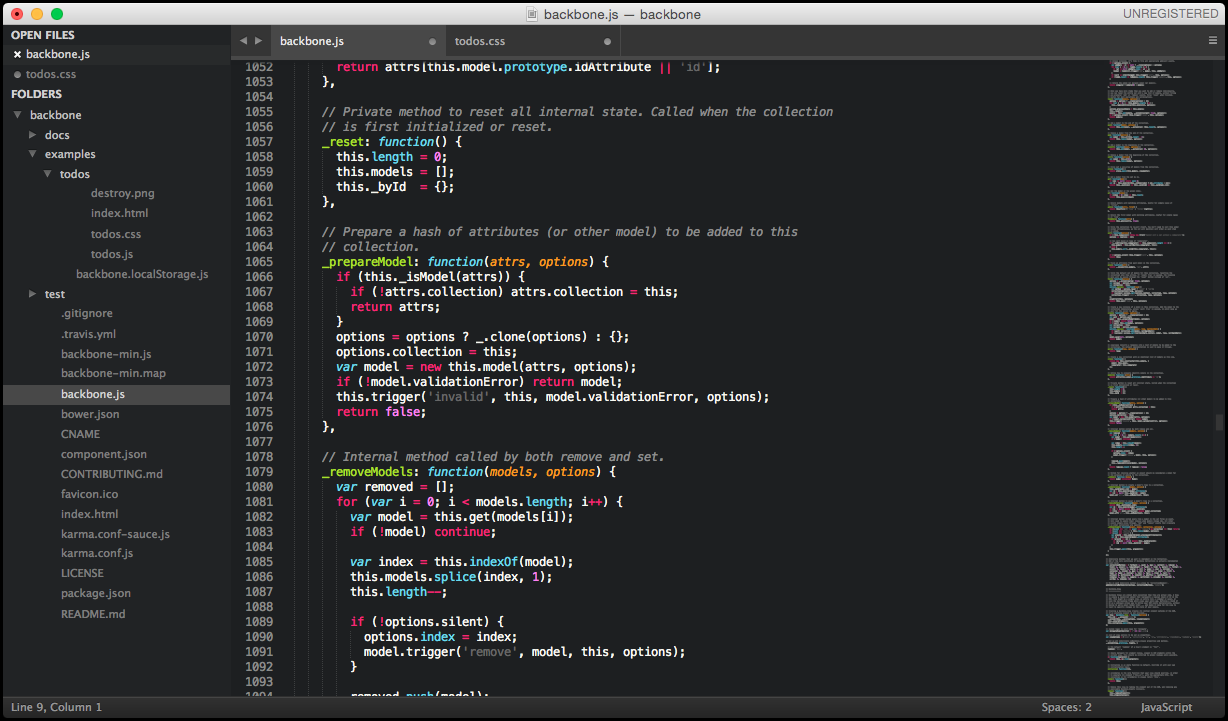
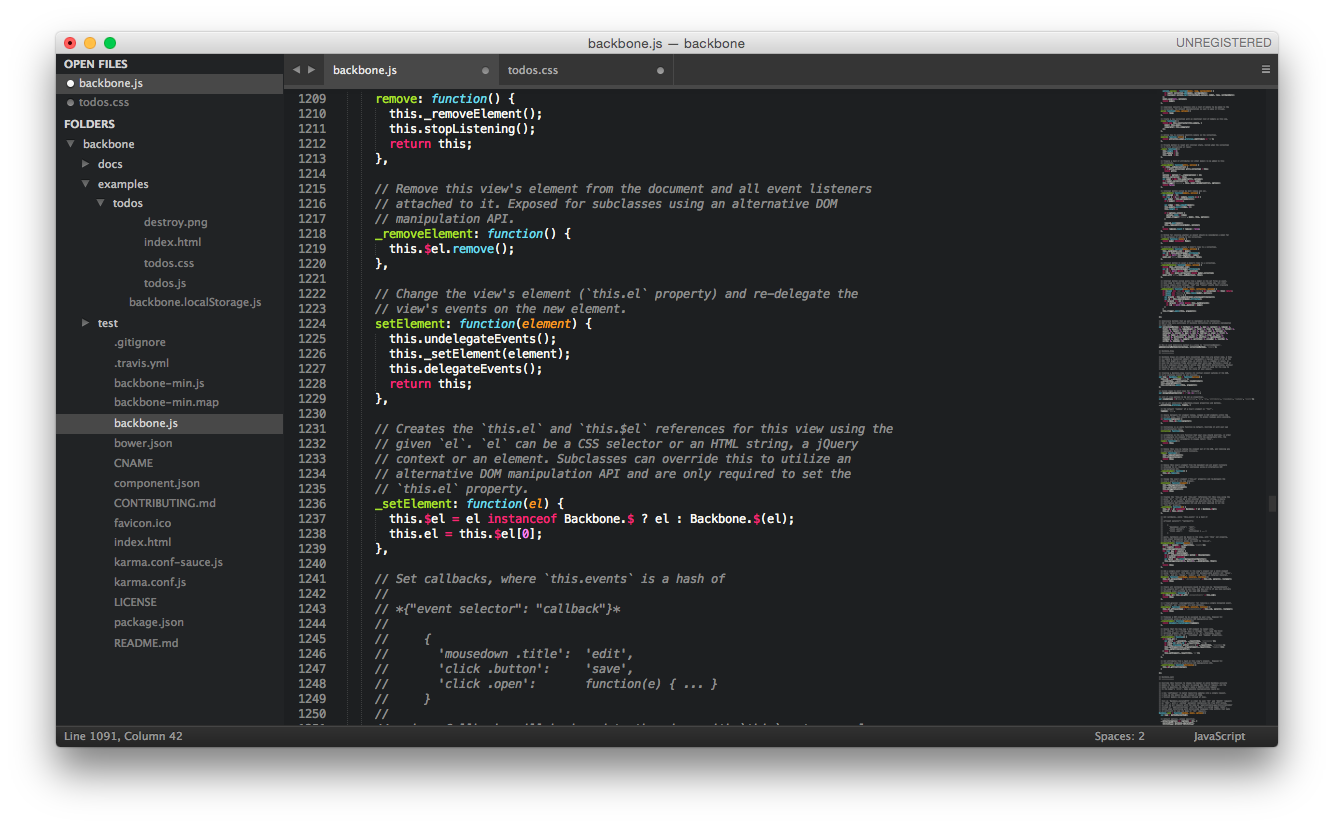
add screenshots

diff --git a/README.md b/README.md
@@ -1,7 +1,17 @@
 Elephant Theme
 ==============
 
-Custom Syntax & UI theme for Sublime Text 2 and Sublime Text 3
+Custom Dark Syntax & UI themes for Sublime Text 2 and Sublime Text 3
+
+
+Elephant
+------------
+![Elephant screenshot](https://raw.githubusercontent.com/ezekielchentnik/Elephant/master/screenshot-elephant.png "Elephant screenshot")
+
+
+Elephant Black
+------------
+![Elephant Black screenshot](https://raw.githubusercontent.com/ezekielchentnik/Elephant/master/screenshot-elephant-black.png "Elephant Black screenshot")
 
 
 Installation
